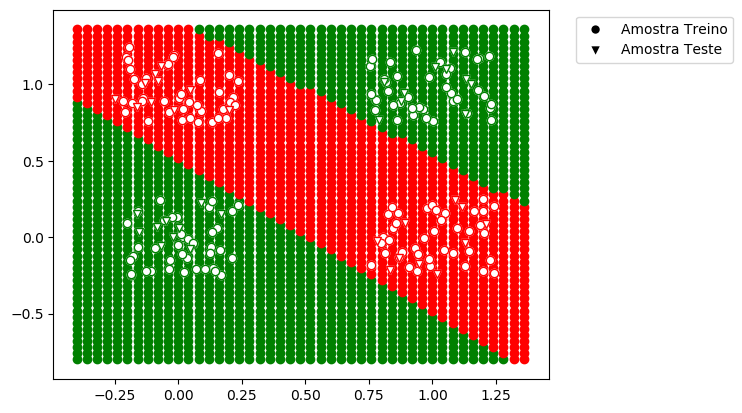
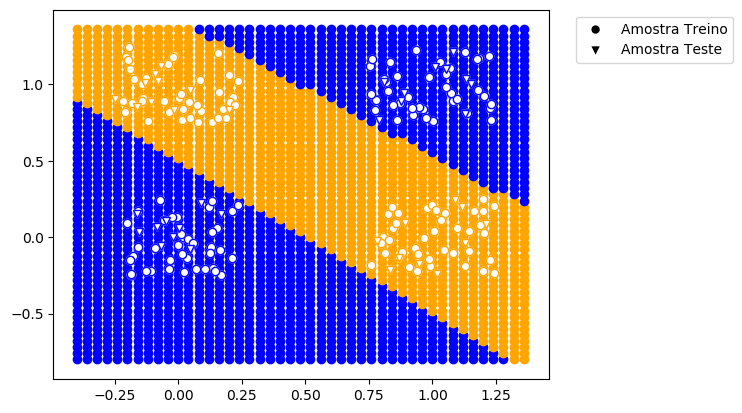
Imagens resultados isabel

diff --git a/T5/Analisys_regression.py b/T5/Analisys_regression.py
@@ -8,7 +8,7 @@ oExp11 = Experiment.load("Objects/EXP02_1_LP_20.gzip".format())
 oExp12 = Experiment.load("Objects/EXP02_2_LP_20.gzip".format())
 oExp13 = Experiment.load("Objects/EXP02_3_LP_20.gzip".format())
 
-COLORS = ['GREEN', 'RED', 'BLUE']
+COLORS = ['BLUE', 'ORANGE', 'RED']
 MARKER = ['o', '^', "*"]
 base1 = np.loadtxt("Datasets/artifitial1.data", delimiter=",")
 

diff --git a/T5/Analisys.py b/T5/Analisys.py
@@ -11,7 +11,7 @@ oExp14 = Experiment.load("Objects/EXP01_4_LP_20.gzip".format())
 oExp15 = Experiment.load("Objects/EXP01_5_LP_20.gzip".format())
 
 
-COLORS = ['GREEN', 'RED', 'BLUE']
+COLORS = ['BLUE', 'ORANGE', 'RED']
 MARKER = ['o', '^', "*"]
 base1 = np.loadtxt("Datasets/XOR.txt", delimiter=",")
 
